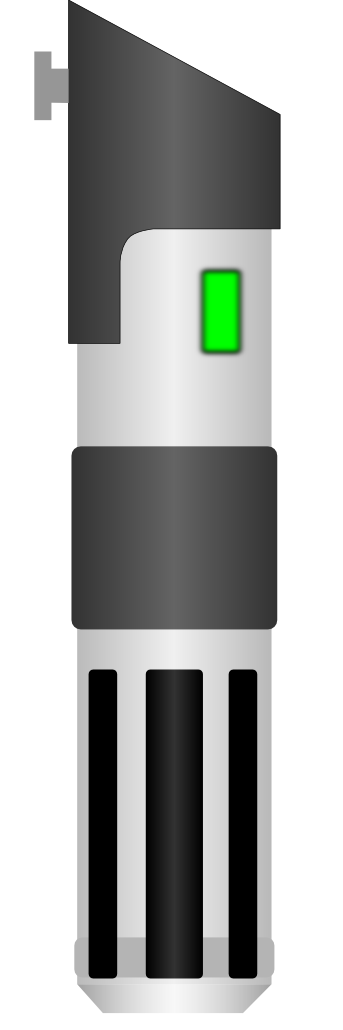
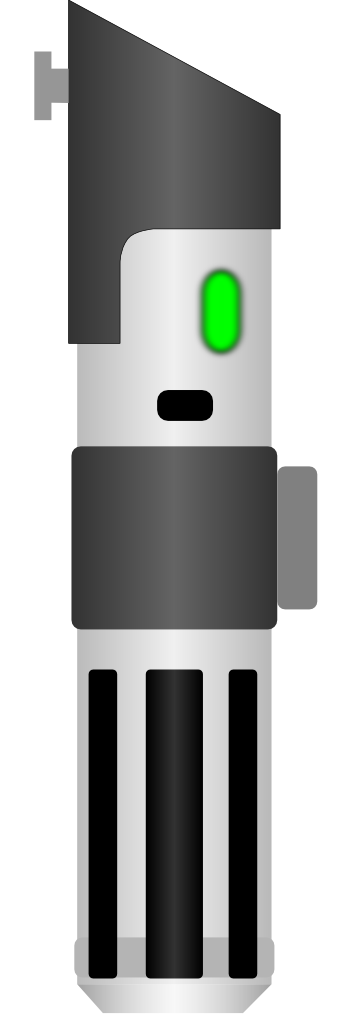
animation works, looks great :)

Changed region(s): [[0.7872, 0.435, 0.9329, 0.5903], [0.4373, 0.3107, 0.7289, 0.435], [0.5831, 0.2485, 0.7289, 0.2796]]

diff --git a/qml/lightsaber/MainPage.qml b/qml/lightsaber/MainPage.qml
@@ -15,49 +15,48 @@ Page {
 
     property string lightsabercolor : LightsaberSettings.lightsaberColor
 
-    Column {
-        anchors.fill: parent
+    Rectangle{
+        id: swordRectangle
+        height: 630
+        width: 124
+        anchors.horizontalCenter: parent.horizontalCenter
+        color: "transparent"
 
-        Rectangle{
-            id: swordRectangle
-            height: 550
-            width: 170
-            anchors.horizontalCenter: parent.horizontalCenter
-            color: "transparent"
+        BorderImage {
+            id: lightsaberImage
+            anchors.bottom: parent.bottom
+            anchors.bottomMargin: - 45
+            width: parent.width
+            height: core.lightsaberPower ? parent.height : 0
 
-            BorderImage {
-                id: lightsaberImage
-                anchors.bottom: parent.bottom
-                width: parent.width
-                height: core.lightsaberPower ? parent.height : 0
+            source: "lightsaber_" + lightsabercolor + ".png"
 
-                source: "lightsaber_" + lightsabercolor + ".png"
-
-                Behavior on height{
-                    NumberAnimation{
-                        easing.amplitude: 0.65
-                        easing.period: 0.37
-                        easing.type: Easing.OutExpo
-                        duration: 600
-                    }
+            Behavior on height{
+                NumberAnimation{
+                    easing.amplitude: 0.65
+                    easing.period: 0.37
+                    easing.type: Easing.OutExpo
+                    duration: 600
                 }
             }
         }
+    }
 
 
-        Rectangle{
-            id: hiltRectangle
-            height: 170
-            width: 55
-            anchors.horizontalCenter: parent.horizontalCenter
-            color: "transparent"
+    Rectangle{
+        id: hiltRectangle
+        height: 180
+        width: 60
+        anchors.horizontalCenter: parent.horizontalCenter
+        anchors.bottom: parent.bottom
+        anchors.bottomMargin: +10
+        color: "transparent"
 
-            Image {
-                id: lightsaberImageOff
-                anchors.fill: parent
-                source: "lightsaber_hilt_DarthVader_on.png"
-                //source: core.lightsaberPower ? "lightsaber_on.png" : "lightsaber_off.png"
-            }
+        Image {
+            id: lightsaberImageOff
+            anchors.fill: parent
+            source: "lightsaber_hilt_DarthVader_on.png"
+            //source: core.lightsaberPower ? "lightsaber_on.png" : "lightsaber_off.png"
         }
     }
     ToolBar {
